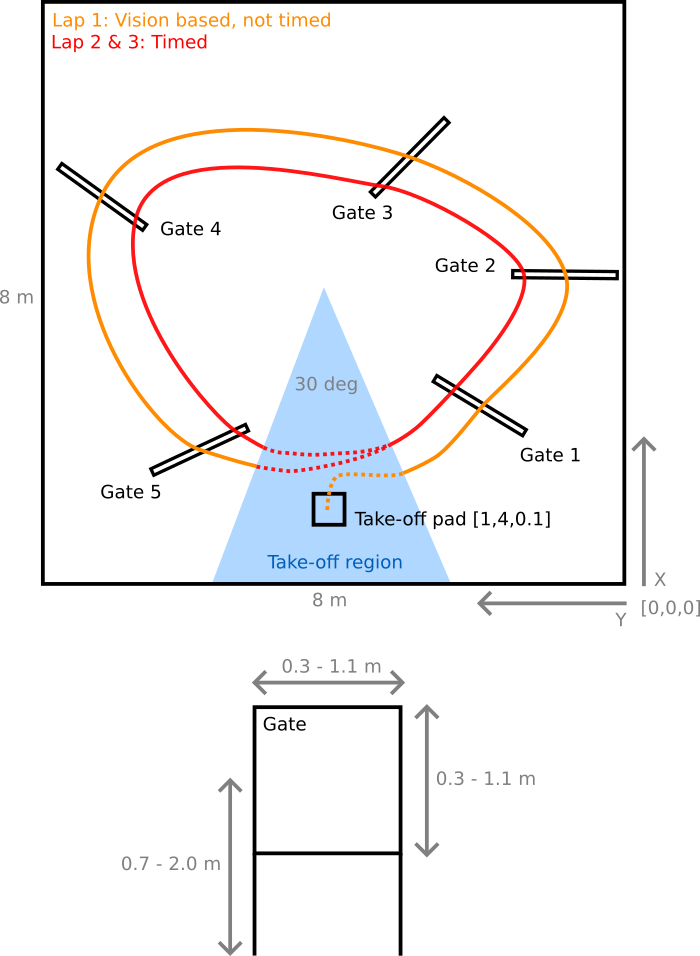
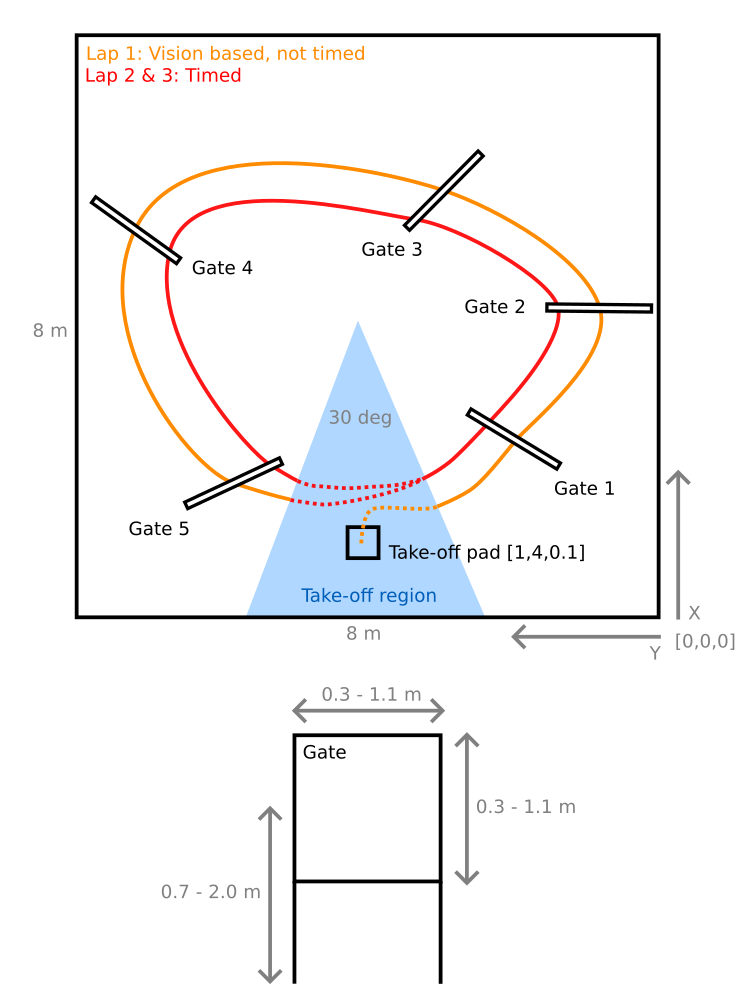
Improvements to documentation of assignment

Changed region(s): [[0.0, 0.0, 0.93, 0.6674], [0.18, 0.6674, 0.78, 1.0], [0.93, 0.6067, 1.0, 0.6674]]

diff --git a/docs/assignment/project_description.rst b/docs/assignment/project_description.rst
@@ -9,7 +9,7 @@ Simulation Task overview (individual work)
 -------------------------
 
 .. image:: race_track.png
-  :width: 500
+  :width: 650
   :alt: objective figure
 
 The simulation arena is shown in the figure above. Your task is composed of multiple phases:
@@ -20,8 +20,9 @@ The simulation arena is shown in the figure above. Your task is composed of mult
 
 Please note the following:
 
-- The position of the take-off pad is randomly assigned.
-- The gate position is also ransomly assigned, however there will always be five of them, aranged circular and have to be completed counter clock wise.
+- The position of the take-off pad is fixed.
+- The gate positions are randomly assigned, however there will always be five of them, aranged circular and have to be completed counter clock wise.
+- The clock starts when you leave the take-off region and stops when you enter it again.
 - The origin and the coordinate system for your reference are indicated in the figure above. The Z coordinate is directed upwards (out of the page).
 - A maximum time limit for your run in simulation is set at 240 seconds. Only the phases which you have completed up to this cutoff time will determine your grade for this task according to the metrics defined below.
 
@@ -36,7 +37,7 @@ Hardware Task overview (group work)
 -----------------------
 
 In the hardware task, you will work towards transfering your algorithms from simulation onto the real Crazyflie hardware.
-This time you work in a team of 
+This time you work in a team of 4-5 people.
 
 The hardware arena is the same as the simulation arena. We will, however, tell you the position of the gates before the start of the task, so no need for computer vision on hardware.
 
